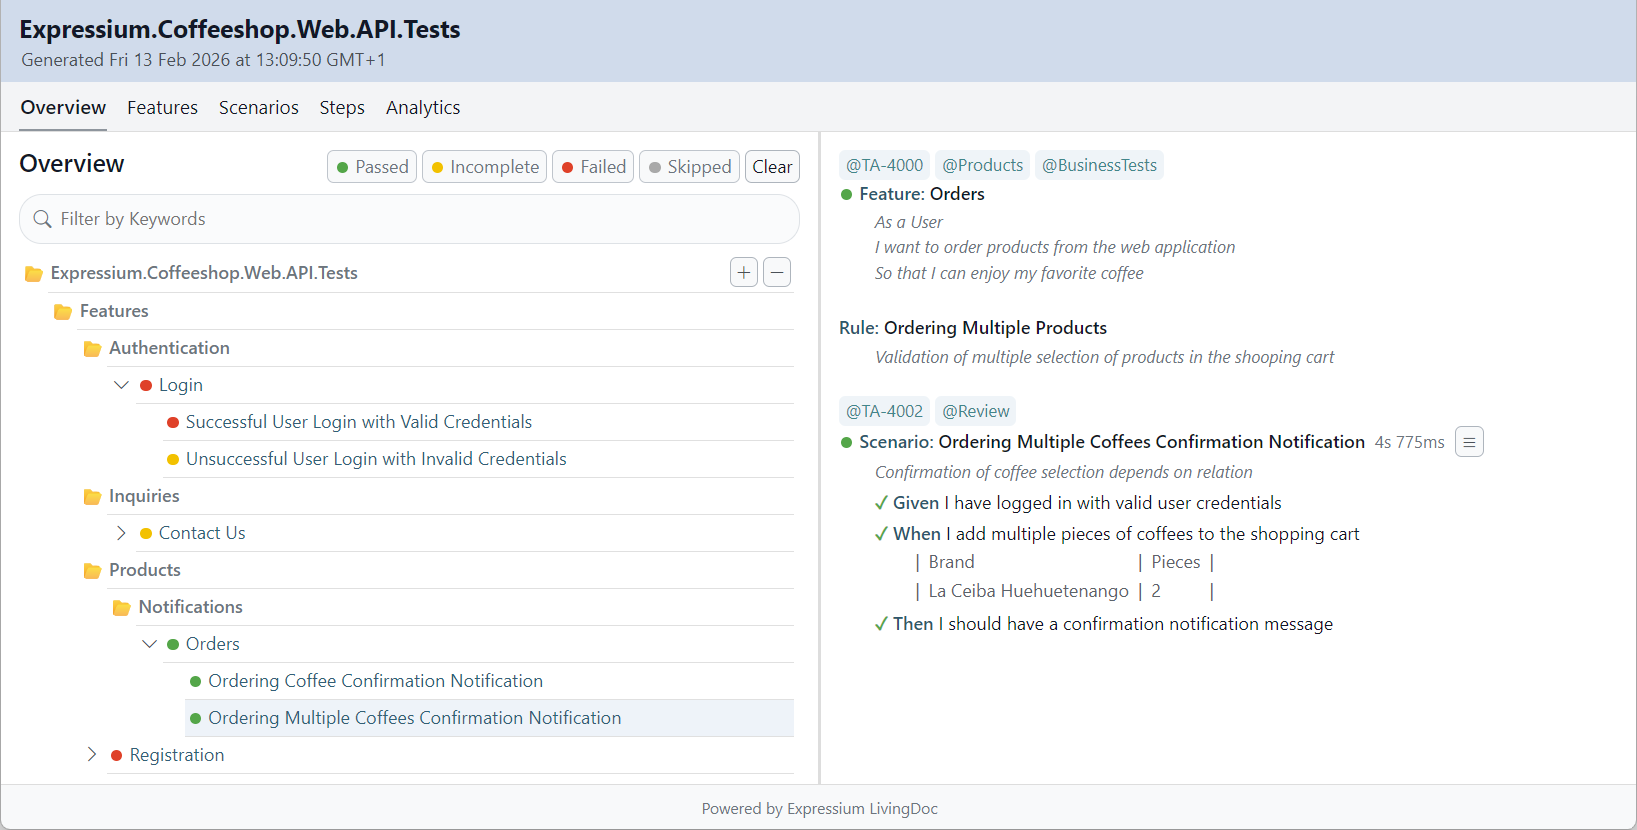
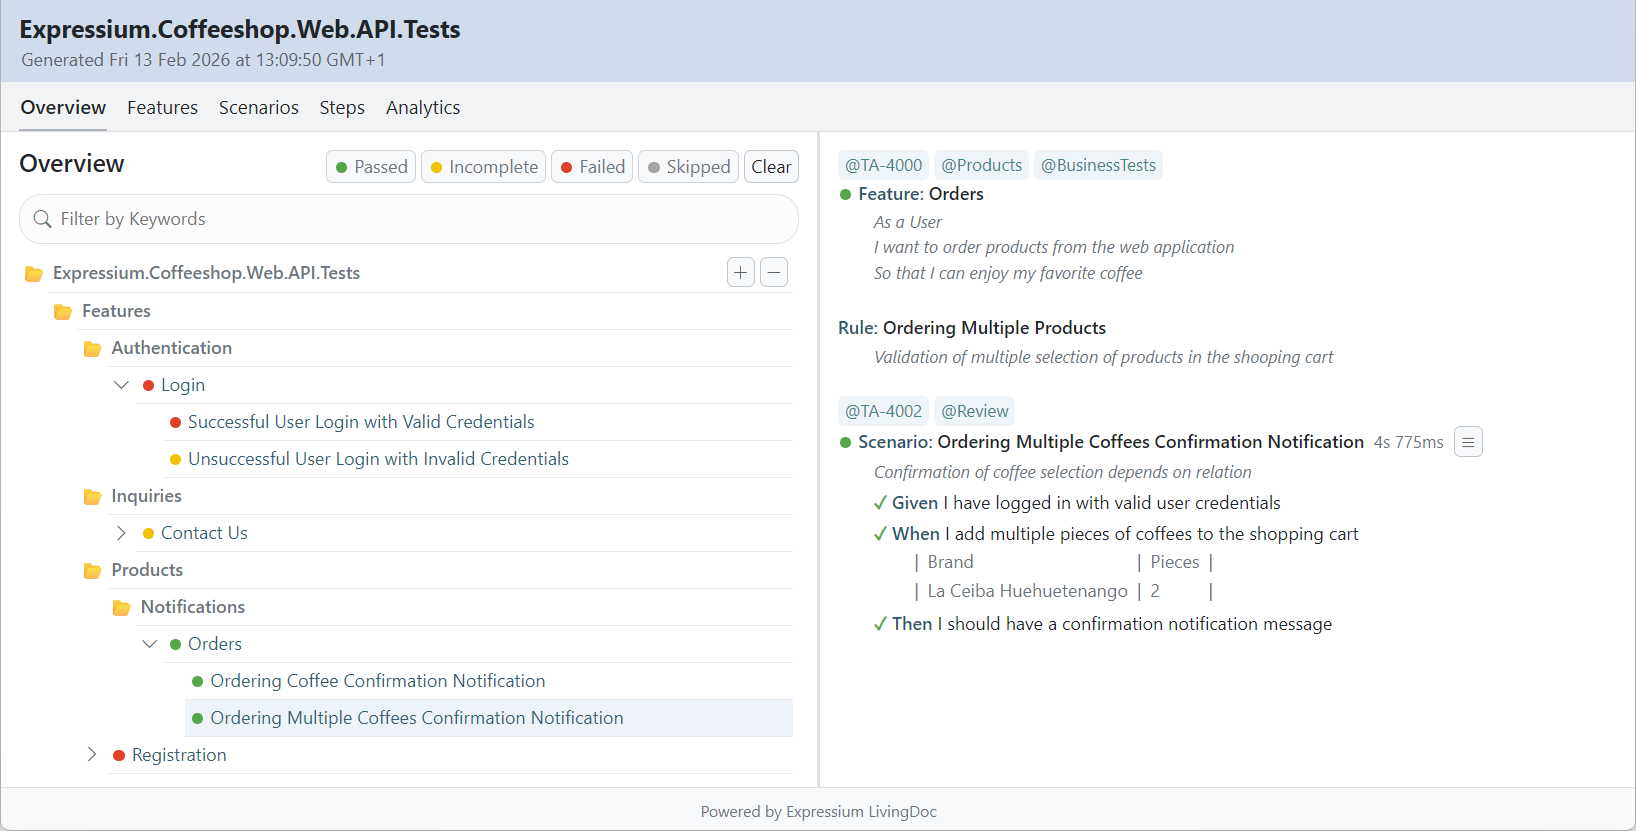
Update README documentation regarding History Analysis

diff --git a/Expressium.LivingDoc/Generators/LivingDocDataObjectsGenerator.cs b/Expressium.LivingDoc/Generators/LivingDocDataObjectsGenerator.cs
@@ -174,8 +174,9 @@ namespace Expressium.LivingDoc.Generators
                         listOfLines.AddRange(GenerateDataScenarioDescription(scenario));
                         listOfLines.AddRange(GenerateDataScenarioSteps(example));
                         listOfLines.AddRange(GenerateDataScenarioExamples(example));
-                        listOfLines.AddRange(GenerateDataScenarioAttachments(example));
                         listOfLines.AddRange(GenerateDataScenarioHistory(example));
+                        listOfLines.AddRange(GenerateDataScenarioAttachments(example));
+
                         listOfLines.Add("</div>");
                         listOfLines.Add("<hr>");
                     }
@@ -311,11 +312,11 @@ namespace Expressium.LivingDoc.Generators
             if (hasStacktraces)
                 listOfLines.Add("<button class='scenario-stacktraces bi bi-code-slash' title='Toggle Stacktrace' onclick=\"toggleStacktraces(this)\"></button>");
 
-            if (example.Attachments.Count > 0)
-                listOfLines.Add("<button class='scenario-attachments bi bi-list' title='Toggle Attachments' onclick=\"toggleAttachments(this)\"></button>");
-
             if (example.History.Count > 0)
                 listOfLines.Add("<button class='scenario-history bi bi-calendar4' title='Toggle History' onclick=\"toggleHistory(this)\"></button>");
+
+            if (example.Attachments.Count > 0)
+                listOfLines.Add("<button class='scenario-attachments bi bi-list' title='Toggle Attachments' onclick=\"toggleAttachments(this)\"></button>");
 
             listOfLines.Add("</div>");
 

diff --git a/README.md b/README.md
@@ -42,11 +42,13 @@ The formatter configuration may include relative paths and predefined ReqnRoll s
 ## History Analysis
 The Expressium LivingDoc report may optionally include historical test results 
 based on previous Cucumber Messages files.
-Historical test results are visualized as trends and failures 
-in the Analyze section of the LivingDoc report
-and includes a maximum of four of the most recent previous test executions.
+Historical test results are visualized as trends in Analytics
+along with a date-based status list within each scenario.
+An additional health status - Broken, Regressed, Flaky, or Fixed —
+is derived from historical results and displayed in the scenario tags.
+The history analysis is limited to the four most recent test runs.
 In a pipeline, the previous Cucumber message files
-must be preserved in the history folder before executing the next test run.
+must be preserved in the history folder before executing the tests.
 
 ***ReqnRoll.json***
 ```json
@@ -65,6 +67,11 @@ must be preserved in the history folder before executing the next test run.
 <br />
 <p align="center">
 <img src="HistoryAnalysis.png"
+     style="display: block; margin-left: auto; margin-right: auto; width: 80%;" />
+</p>
+
+<p align="center">
+<img src="HistoryScenario.png"
      style="display: block; margin-left: auto; margin-right: auto; width: 80%;" />
 </p>
 